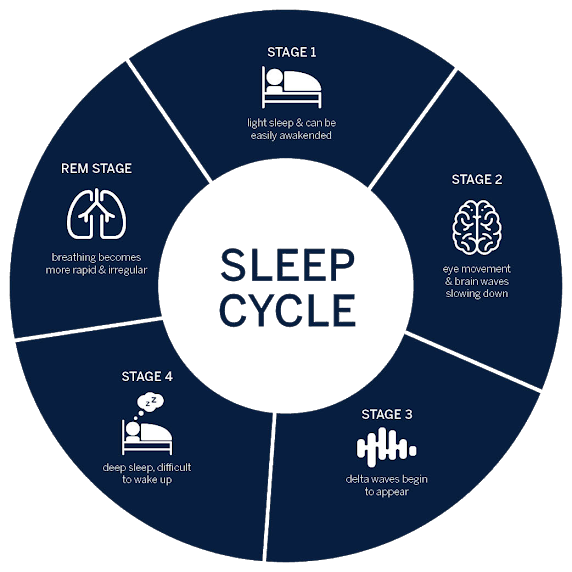
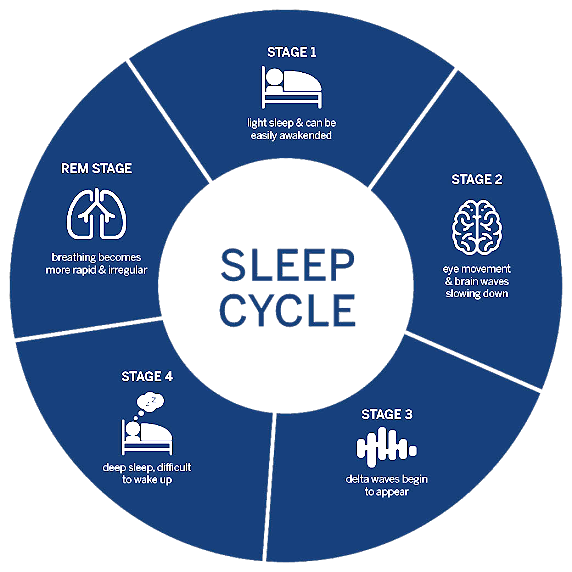
Fixed Darkmode image bugs

diff --git a/designs/flymigos.html b/designs/flymigos.html
@@ -2,54 +2,51 @@
 <html lang="en">
 
 <head>
-  <meta charset="utf-8">
-  <meta name="viewport" content="width=device-width, initial-scale=1, minimum-scale=1, maximum-scale=1">
-  <title>Marcus Blackstock / Flymigos</title>
-  <link rel="stylesheet" type="text/css" href="https://fonts.googleapis.com/css?family=Karla:400,400i,700,700i">
-  <link rel="stylesheet" href="../css/normalize.css">
-  <link rel="stylesheet" href="../css/style.css">
-  <link rel="stylesheet" href="../css/responsive.css">
-  <link rel="stylesheet" href="../css/flickity.css">
-  <link href="css/materialdesignicons.min.css" media="all" rel="stylesheet" type="text/css" />
-  <link rel="shortcut icon" href="http://marcusblackstock.com/favicon.ico">
-  <link rel="icon" href="http://marcusblackstock.com/favicon.ico">
+    <meta charset="utf-8">
+    <meta name="viewport" content="width=device-width, initial-scale=1, minimum-scale=1, maximum-scale=1">
+    <title>Marcus Blackstock / Flymigos</title>
+    <link rel="stylesheet" type="text/css" href="https://fonts.googleapis.com/css?family=Karla:400,400i,700,700i">
+    <link rel="stylesheet" href="../css/normalize.css">
+    <link rel="stylesheet" href="../css/style.css">
+    <link rel="stylesheet" href="../css/responsive.css">
+    <link rel="stylesheet" href="../css/flickity.css">
+    <link href="css/materialdesignicons.min.css" media="all" rel="stylesheet" type="text/css" />
+    <link rel="shortcut icon" href="http://marcusblackstock.com/favicon.ico">
+    <link rel="icon" href="http://marcusblackstock.com/favicon.ico">
 </head>
 
 <body>
-  <nav>
-    <div class="nav-content">
-      <h1 class="title"><a href="../index.html"><span>Marcus Blackstock</span></a></h1>
-      <div class="nav-links">
-        <a href="../video.html" class="nav-item">Video</a>
-        <!-- <a href="motion.html" class="nav-item">Motion</a> -->
-        <a href="../design.html" class="nav-item">Design</a>
-        <a href="../about.html" class="nav-item">About</a>
-      </div>
-    </div>
-  </nav>
+    <nav>
+        <div class="nav-content">
+            <h1 class="title"><a href="../index.html"><span>Marcus Blackstock</span></a></h1>
+            <div class="nav-links">
+                <a href="../video.html" class="nav-item">Video</a>
+                <!-- <a href="motion.html" class="nav-item">Motion</a> -->
+                <a href="../design.html" class="nav-item">Design</a>
+                <a href="../about.html" class="nav-item">About</a>
+            </div>
+        </div>
+    </nav>
 
-  <div class="project-wrapper">
-    <div class="project-row">
-      <div class="project-content">
-        <h2 class="black" style="-webkit-text-stroke-width: 0px;">Flymigos</h2>
-        <!-- <img src="../img/flymigos/logo.png" class="logo"> -->
-        <h3 style="color: #f59cb0;">Branding / Web Design Project</h3>
-        <p><a href="https://www.flymigos.com/">View website ></a></p>
-      </div>
-      <div class="project-content details">
-        <p class="gray rightAlign">
-          <span style="font-weight: bold;">DATE</span><br>
-          Summer 2019<br><br>
-          <!-- <span style="font-weight: bold;">TEAM</span><br> -->
-          <span style="font-weight: bold;">ROLE</span><br>
-          Graphic Design<br>
-          Web Design<br><br>
-          <!-- <span style="font-weight: bold;">TOOLS</span><br> -->
-        </p>
-      </div>
-    </div>
-    <div class="videoWrapper" style="z-index: -1;">
-      <video src="../img/motion/flymigos.mp4" autoplay style="width: 100%;">
+    <div class="project-wrapper">
+        <div class="project-row">
+            <div class="project-content">
+                <h2 class="black" style="-webkit-text-stroke-width: 0px;">Flymigos</h2>
+                <!-- <img src="../img/flymigos/logo.png" class="logo"> -->
+                <h3 style="color: #f59cb0;">Branding / Web Design Project</h3>
+                <p><a href="https://www.flymigos.com/">View website ></a></p>
+            </div>
+            <div class="project-content details">
+                <p class="gray rightAlign">
+                    <span style="font-weight: bold;">DATE</span><br> Summer 2019<br><br>
+                    <!-- <span style="font-weight: bold;">TEAM</span><br> -->
+                    <span style="font-weight: bold;">ROLE</span><br> Graphic Design<br> Web Design<br><br>
+                    <!-- <span style="font-weight: bold;">TOOLS</span><br> -->
+                </p>
+            </div>
+        </div>
+        <div class="videoWrapper" style="z-index: -1;">
+            <video src="../img/motion/flymigos.mp4" autoplay style="width: 100%;">
     </div>
     <div class="project-row">
       <div class="project-content">
@@ -61,7 +58,7 @@
           vision a reality.</p><br>
       </div>
       <div class="project-content">
-        <img src="../img/flymigos/logo.png" alt="logos1"><br>
+        <img src="../img/flymigos/logo.jpg" alt="logos1"><br>
       </div>
     </div>
     <div class="project-row">
